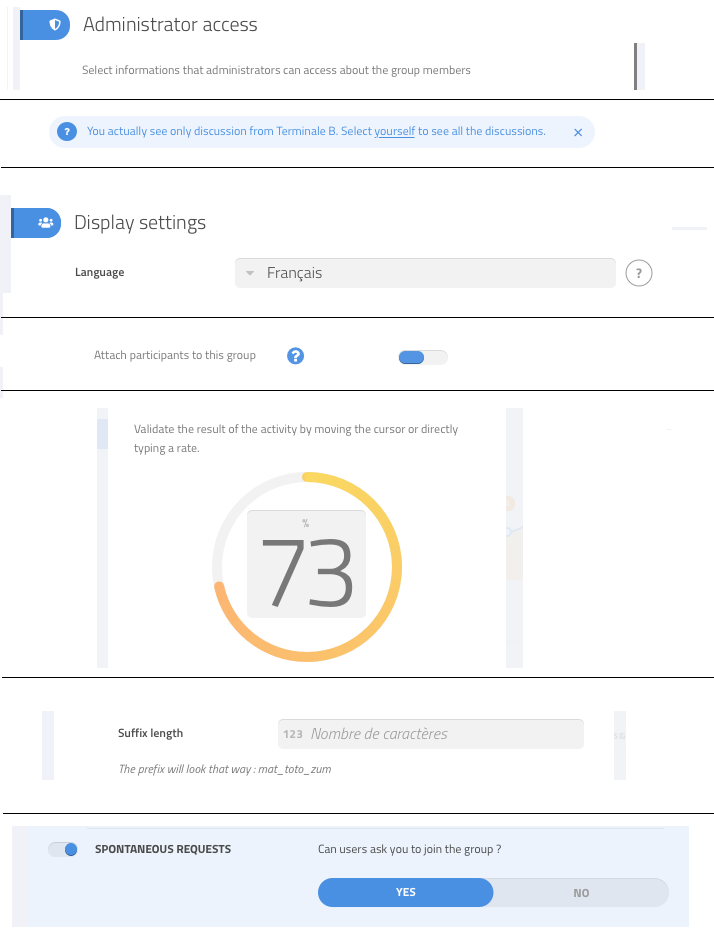
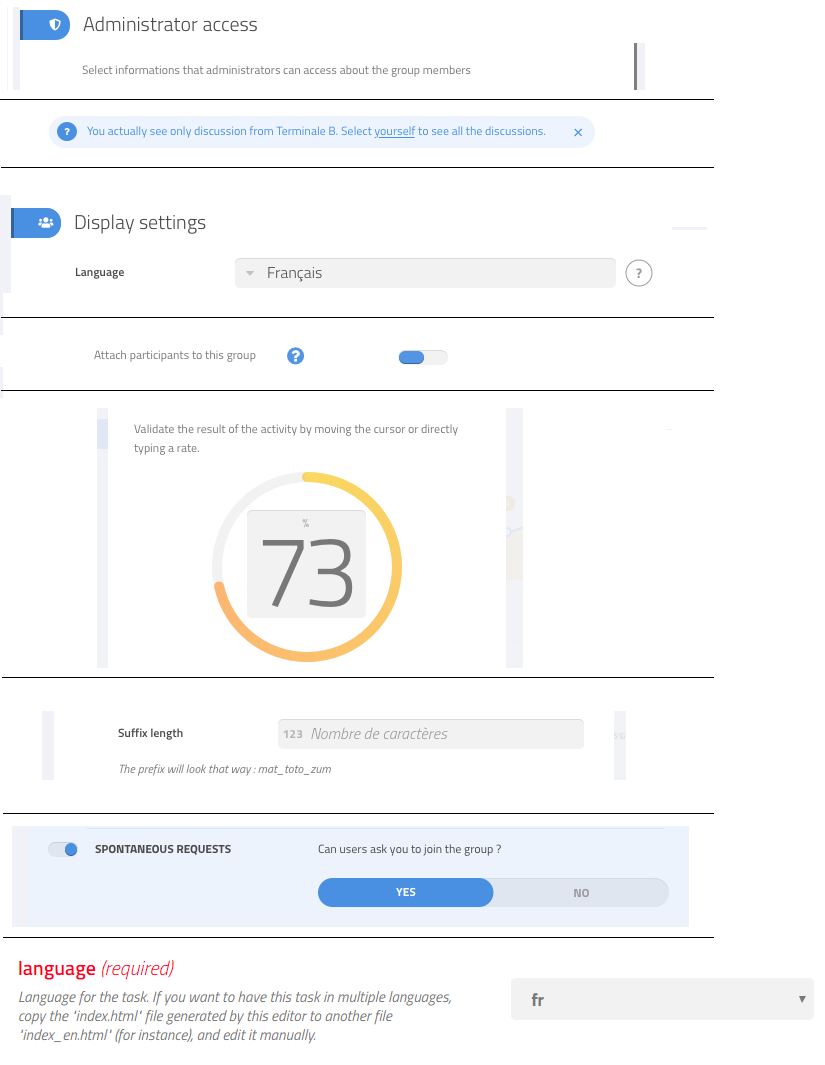
Explanations about forms

diff --git a/_designs/00.Global/08.Forms/00.Global_08.Forms_a_overview.md b/_designs/00.Global/08.Forms/00.Global_08.Forms_a_overview.md
@@ -4,3 +4,20 @@ title: Forms overview
 ref: 00.Global_08.Forms_a_overview
 image: 00.Global_08.Forms_a_overview.png
 ---
+
+The UI contains a number of forms, which should have a common look and should be easy to implement using a set of reusable components.
+
+Forms are divided into (sections and subsections)[00.Global_08.Forms_c_sections], each with a set of (fields)[00.Global_08.Forms_d_fields_types]. There may also be read-only data displayed within the forms, or (other types of fields)[00.Global_08.Forms_g_non_fields]. Some fields may be (optional)[00.Global_08.Forms_f_optional_field], others (required)[00.Global_08.Forms_n_mandatory_fields], and different type of (help)[00.Global_08.Forms_e_help] may be provided.
+
+Some fields may have (subfields)[https://france-ioi.github.io/algorea-designs/00.Global_08.Forms_o_subfields].
+
+Forms may display (errors)[00.Global_08.Forms_i_errors] when some provided input is invalid.
+
+Some sections of the form may initially be (locked)[00.Global_08.Forms_p_locked_sections] and made available only when some other fields are already filled.
+
+There are several types of (buttons)[00.Global_08.Forms_h_footer_validation] to validate or cancel the form.
+
+When the label is too long, it should automatically be split into (multiple lines)[00.Global_08.Forms_m_multi_line_labels]
+
+A form may contain other interactive aspects, such as (action buttons)[00.Global_08.Forms_l_action_buttons]
+

diff --git a/_designs/00.Global/08.Forms/00.Global_08.Forms_g_non_fields.md b/_designs/00.Global/08.Forms/00.Global_08.Forms_g_non_fields.md
@@ -4,3 +4,13 @@ title: Forms non fields
 ref: 00.Global_08.Forms_g_non_fields
 image: 00.Global_08.Forms_g_non_fields.png
 ---
+
+A form may contain some fields that are not input fields.
+
+- fields that contain a readonly value, that may depend on the value provided for other fields.
+- optional fields with a generated value, such as a password
+- fields that contain a multi-line readonly value
+- fields that contain an interactive interface with buttons
+
+Some of these fields may only have values once the object the form is editing has actually been created on the server. Some values are computer client-side when the content of the form changes, or computer server-side when specific actions are done by the user.
+

diff --git a/_designs/00.Global/08.Forms/00.Global_08.Forms_e_help.md b/_designs/00.Global/08.Forms/00.Global_08.Forms_e_help.md
@@ -4,3 +4,15 @@ title: Forms help
 ref: 00.Global_08.Forms_e_help
 image: 00.Global_08.Forms_e_help.png
 ---
+
+To help users fill the form, different informations may be available:
+
+- some text at the top of a section
+- information bubbles that may be closed (optional)
+- (?) icon at the end of a field, that opens some explanation (TODO: design)
+- alternate version of the icon (ignore for now, probaby obsolete)
+- some text above a field
+- some text below the field, occupying the whole width
+- some text above the field, on the right side
+- some text below the field label, occupying the left side only
+

diff --git a/_designs/00.Global/08.Forms/00.Global_08.Forms_h_footer_validation.md b/_designs/00.Global/08.Forms/00.Global_08.Forms_h_footer_validation.md
@@ -4,3 +4,11 @@ title: Forms footer validation
 ref: 00.Global_08.Forms_h_footer_validation
 image: 00.Global_08.Forms_h_footer_validation.png
 ---
+
+The buttons to validate or cancel the form may come in different ways:
+- centered cancel / validate buttons
+- centered single action buttons
+- right-aligned action button with a generated message on the left
+- right-align action button with an option on the left
+- a different type of buttons in the bottom-right corner (for a different type of container)
+- buttons in the header of the page (doesn't exclude buttons at the bottom)

diff --git a/_designs/00.Global/08.Forms/00.Global_08.Forms_b_header.md b/_designs/00.Global/08.Forms/00.Global_08.Forms_b_header.md
@@ -4,3 +4,13 @@ title: Forms header
 ref: 00.Global_08.Forms_b_header
 image: 00.Global_08.Forms_b_header.png
 ---
+
+Forms will be integrated in different types of containers.
+
+- modal dialogs that can be closed with a X at the top-right corner
+- inside tabs of the main page
+- inside the main page when switched to "edition mode" with a special header at the top to close or validate.
+- within the navigation panel
+
+The components should adapt to the available width, and support different (backgrounds)[00.Global_08.Forms_k_backgrounds] colors (white, gray, black)
+

diff --git a/_designs/00.Global/08.Forms/00.Global_08.Forms_j_integrated_search.md b/_designs/00.Global/08.Forms/00.Global_08.Forms_j_integrated_search.md
@@ -4,3 +4,10 @@ title: Forms integrated search
 ref: 00.Global_08.Forms_j_integrated_search
 image: 00.Global_08.Forms_j_integrated_search.png
 ---
+
+This is a special type of form where while inputing various informations, suggestions are made to use an existing record that corresponds to what the user is typing.
+
+As the user types in the fields, calls will be made to the server to obtain the most similar entries and display them.
+
+The user should only create a new record if he doesn't find it in the existing database.
+

diff --git a/_designs/00.Global/08.Forms/00.Global_08.Forms_f_optional_field.md b/_designs/00.Global/08.Forms/00.Global_08.Forms_f_optional_field.md
@@ -4,3 +4,7 @@ title: Forms optional field
 ref: 00.Global_08.Forms_f_optional_field
 image: 00.Global_08.Forms_f_optional_field.png
 ---
+
+Some fields are optional, and can be set to NULL (none), using a switch placed on the left of the label.
+
+When set to null, the field itself should be diabled if it's small, or hidden if it's big (occupying more than one line). The value should be kept in memory just in case the switch was activated by mistake.

diff --git a/_designs/00.Global/08.Forms/00.Global_08.Forms_p_locked_sections.md b/_designs/00.Global/08.Forms/00.Global_08.Forms_p_locked_sections.md
@@ -4,3 +4,10 @@ title: Forms locked sections
 ref: 00.Global_08.Forms_p_locked_sections
 image: 00.Global_08.Forms_p_locked_sections.png
 ---
+
+Part of a form may depend on some information provided at the top of the form.
+
+Some fields may only be present if certain options are selected or choices made.
+
+When there is no point in showing the rest of the form unless the choice has been made, we disable whole sections and their fields.
+

diff --git a/_designs/00.Global/08.Forms/00.Global_08.Forms_c_sections.md b/_designs/00.Global/08.Forms/00.Global_08.Forms_c_sections.md
@@ -4,3 +4,10 @@ title: Forms Sections
 ref: 00.Global_08.Forms_c_sections
 image: 00.Global_08.Forms_c_sections.png
 ---
+
+Forms are organized in sections. Each section has a section header consisting in an icon and a title.
+
+Some sections may be collapsible. Some may be collapsed by default.
+
+Some sections contain subsections, identified by a smaller icon and titles.
+

diff --git a/_designs/00.Global/08.Forms/00.Global_08.Forms_o_subfields.md b/_designs/00.Global/08.Forms/00.Global_08.Forms_o_subfields.md
@@ -4,3 +4,9 @@ title: Forms subfields
 ref: 00.Global_08.Forms_o_subfields
 image: 00.Global_08.Forms_o_subfields.png
 ---
+
+Some fields may be composed of several sub-fields.
+
+This basically means including a small sub-form in the right side of the form.
+
+In some exceptional cases, it should be possible to have multiple fields on the same row, if there is enough space.

diff --git a/_designs/00.Global/08.Forms/00.Global_08.Forms_i_errors.md b/_designs/00.Global/08.Forms/00.Global_08.Forms_i_errors.md
@@ -4,3 +4,7 @@ title: Forms errors
 ref: 00.Global_08.Forms_i_errors
 image: 00.Global_08.Forms_i_errors.png
 ---
+
+Errors in the form, or errors that prevent editing the form, are displayed using red banners like this.
+
+They can be either at the very top of the form, right by the validation button, or under some of the fields.

diff --git a/_designs/00.Global/08.Forms/00.Global_08.Forms_n_mandatory_fields.md b/_designs/00.Global/08.Forms/00.Global_08.Forms_n_mandatory_fields.md
@@ -4,3 +4,7 @@ title: Forms mandatory fields
 ref: 00.Global_08.Forms_n_mandatory_fields
 image: 00.Global_08.Forms_n_mandatory_fields.png
 ---
+
+Some fields are required. We represent this by making them red and indicating "required" next to them.
+
+Mandatory sections or subsections may be marked as red too.
